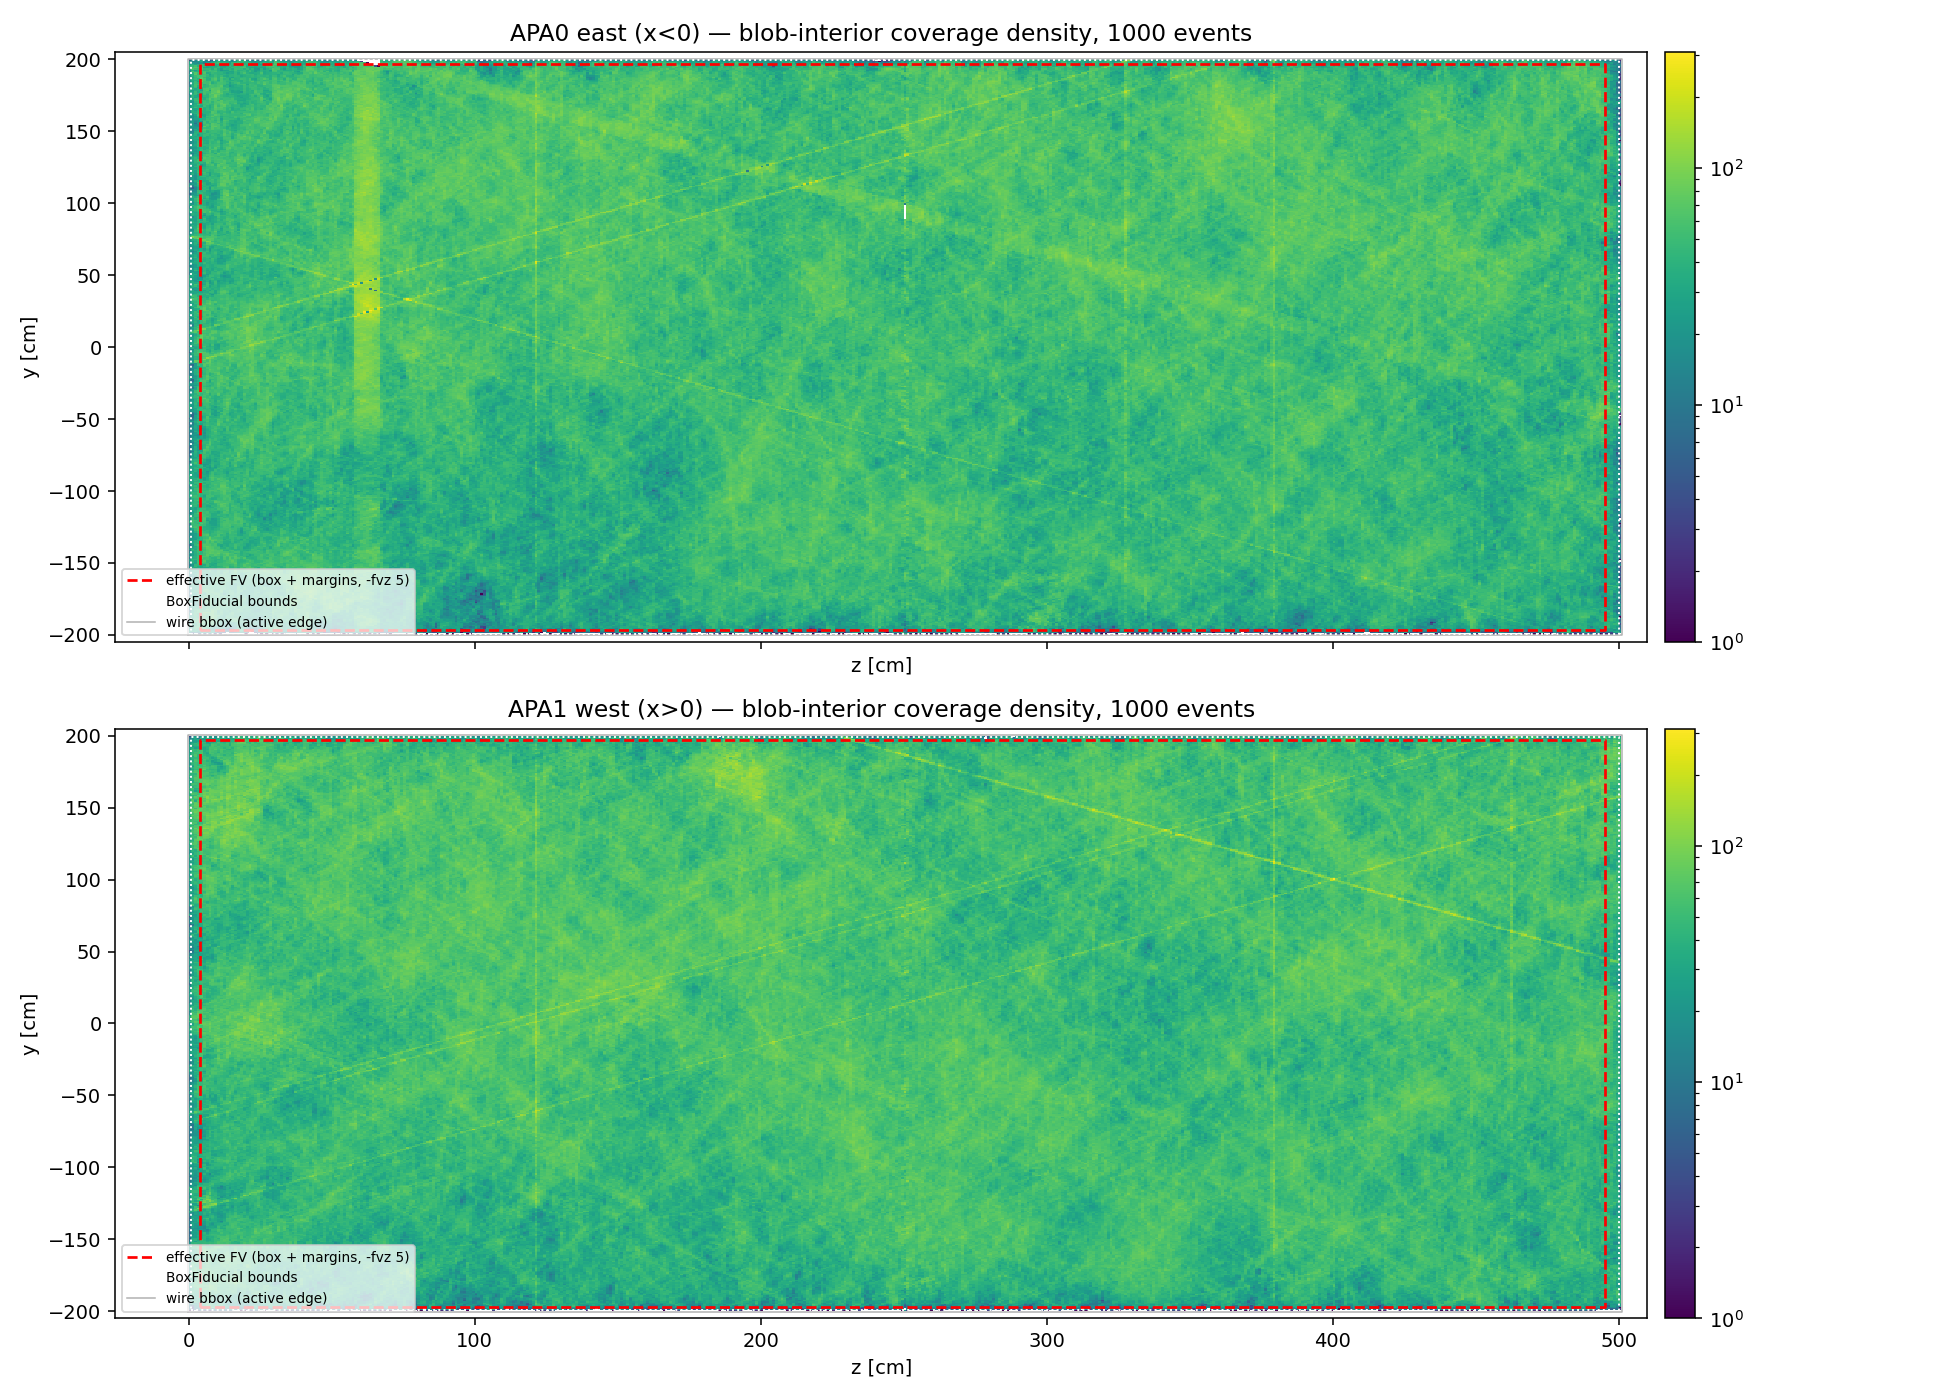
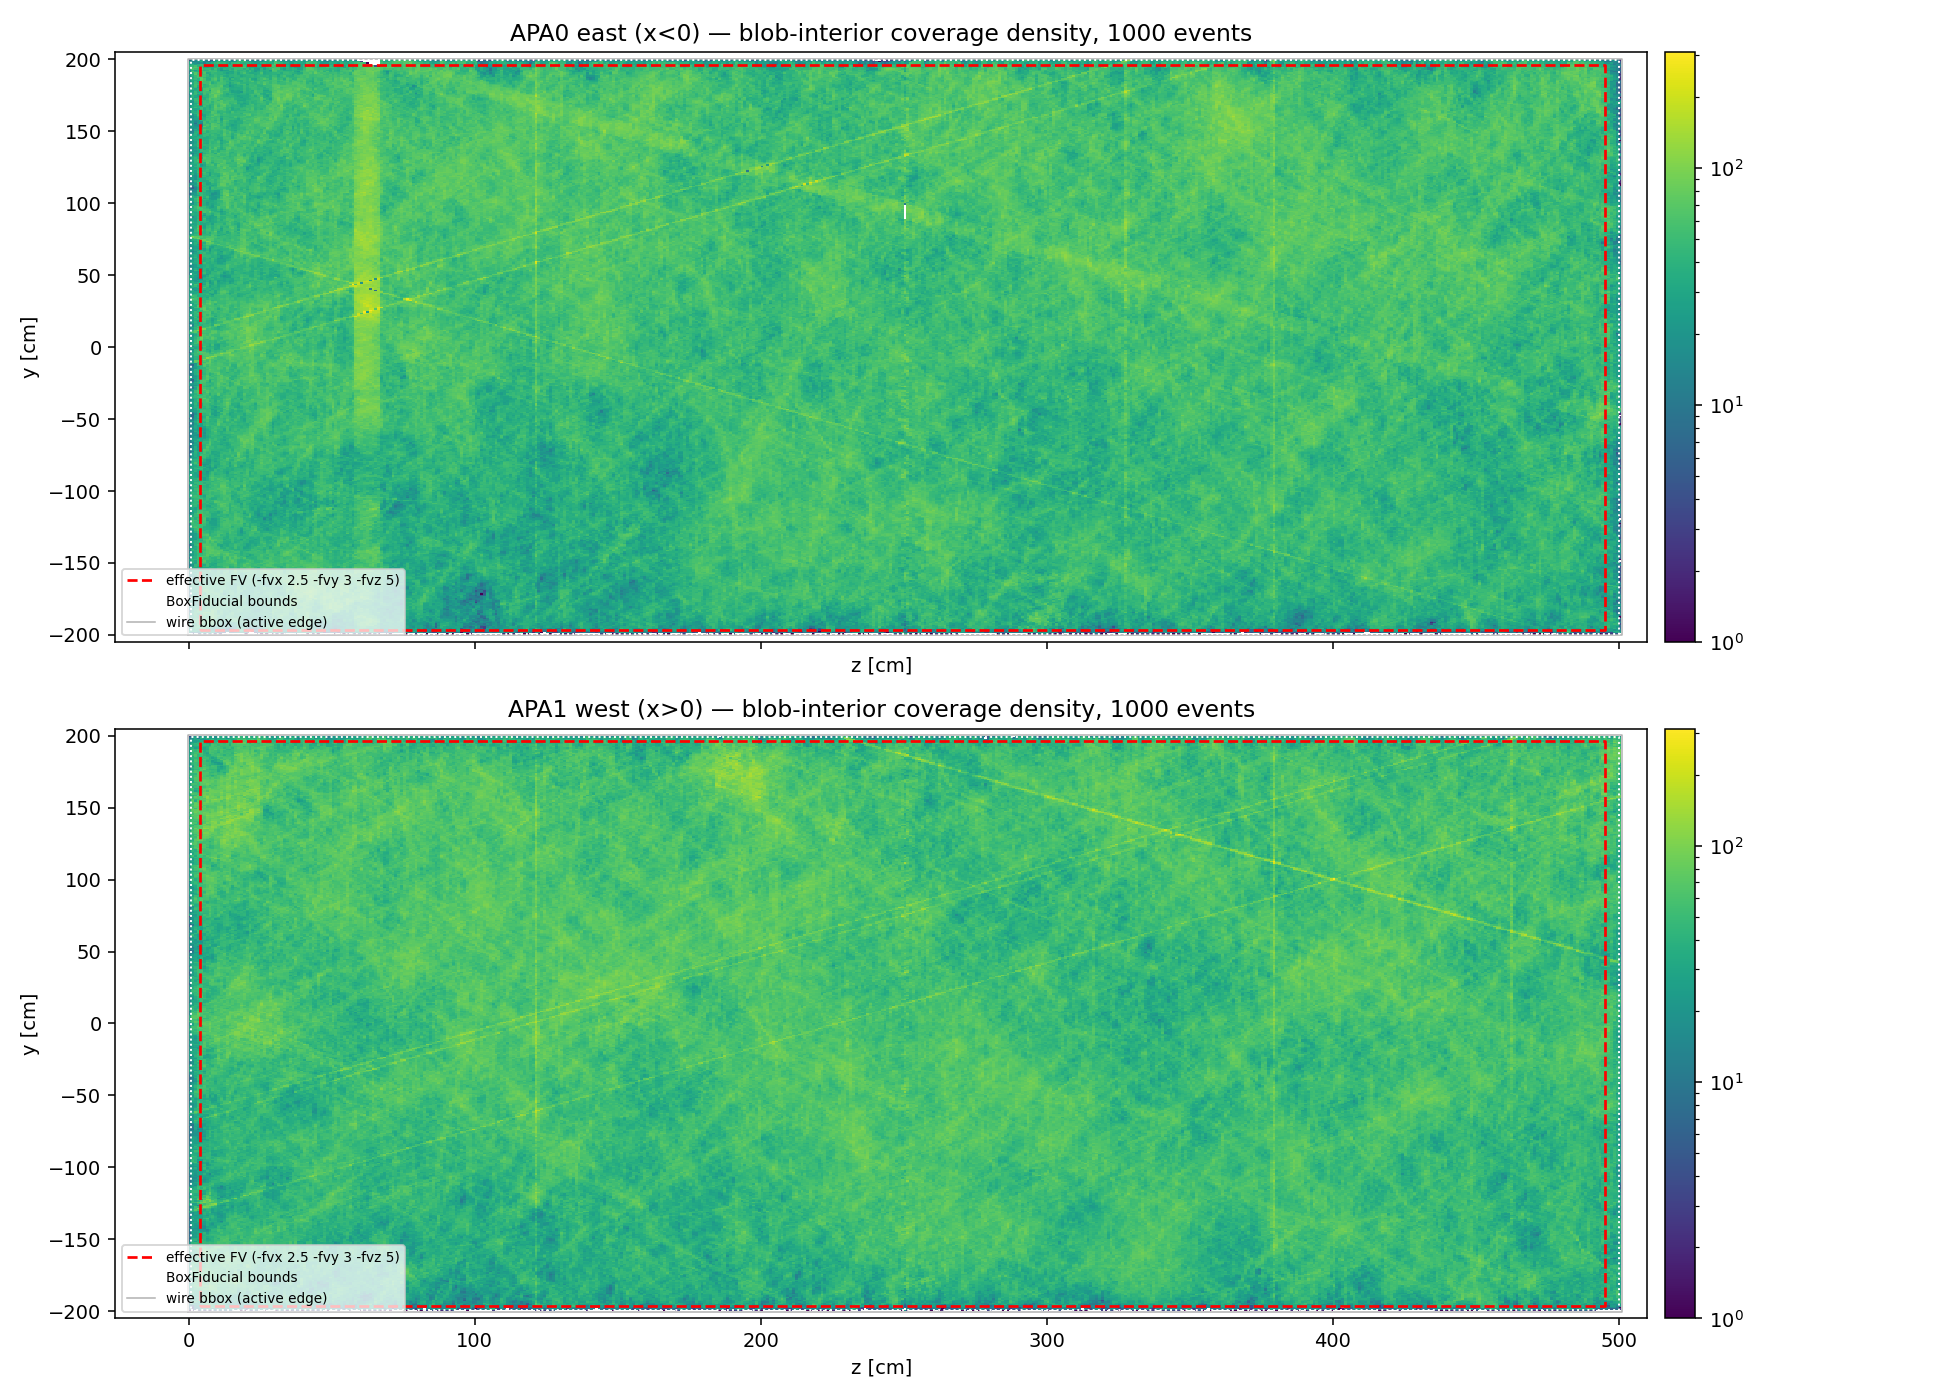
sbnd: doc 37 round 4 retuned to tgm_fv_x/y_margin knobs (-fvx 2.5 -fvy 3); Y-Z FV y faces 196.812 -> 196.312, live margin 2.7 -> 3.2 cm

Changed region(s): [[0.1556, 0.8907, 0.2179, 0.9521], [0.1556, 0.3993, 0.2179, 0.4607]]

diff --git a/sbnd/sbnd_xin/yz_coverage.py b/sbnd/sbnd_xin/yz_coverage.py
@@ -50,12 +50,27 @@ SIDES = {0: 'east (x<0)', 1: 'west (x>0)'}
 # cfg/pgrapher/experiment/sbnd/clus.jsonnet (read at doc-37 round 4):
 #   wire bbox            -> the physical active edge
 #   sbnd_pr_fv 'bounds'  -> BoxFiducial, bbox inset by 1 cm
-#   + sbnd_pr_fv_margins -> fv_tolerance: y +-2.5, z_min +3, z_max -tgm_fv_zmax_margin
-#     (production runs -fvz 5; legacy / doc-35 interior value is 3)
+#   + sbnd_pr_fv_margins -> fv_tolerance, the effective FV used by
+#     tagger_check_tgm / tagger_check_fc.
 WIRE_BBOX = dict(ymin=-200.312, ymax=200.312, zmin=-0.15, zmax=501.15)
 FV_BOX = dict(ymin=-199.312, ymax=199.312, zmin=0.85, zmax=500.15)
-FV_EFF = dict(ymin=-196.812, ymax=196.812, zmin=3.85, zmax=495.15)
-FV_EFF_ZMAX_INTERIOR = 497.15  # -fvzi 3 (doc 35) and the legacy -fvz 3 face
+
+# Production margins (cm).  The jsonnet knob DEFAULTS are the legacy values
+# tgm_fv_x_margin=2, tgm_fv_y_margin=2.5, tgm_fv_zmax_margin=3 (byte-identical);
+# production passes -fvx 2.5 -fvy 3 -fvz 5 -fvzi 3.  z_min is fixed at 3 cm.
+MARGIN_Y = 3.0        # -fvy  (legacy 2.5)
+MARGIN_ZMIN = 3.0     # not knob-parametrized
+MARGIN_ZMAX = 5.0     # -fvz  (legacy 3)
+MARGIN_ZMAX_INTERIOR = 3.0   # -fvzi, doc 35 (endpoint-only widening)
+MARGIN_X = 2.5        # -fvx  (legacy 2); not visible in a Y-Z projection,
+                      # effective |x| face = 201.05 - MARGIN_X = 198.55 cm
+LEGACY_MARGIN_Y = 2.5
+
+FV_EFF = dict(ymin=FV_BOX['ymin'] + MARGIN_Y, ymax=FV_BOX['ymax'] - MARGIN_Y,
+              zmin=FV_BOX['zmin'] + MARGIN_ZMIN,
+              zmax=FV_BOX['zmax'] - MARGIN_ZMAX)
+FV_EFF_ZMAX_INTERIOR = FV_BOX['zmax'] - MARGIN_ZMAX_INTERIOR   # 497.15
+FV_EFF_Y_LEGACY = FV_BOX['ymax'] - LEGACY_MARGIN_Y             # 196.812
 
 
 def draw_fv(ax, which='all'):
@@ -66,7 +81,8 @@ def draw_fv(ax, which='all'):
     for d, kw in ((WIRE_BBOX, kw_bb), (FV_BOX, kw_box), (FV_EFF, kw_eff)):
         ax.plot([d['zmin'], d['zmax'], d['zmax'], d['zmin'], d['zmin']],
                 [d['ymin'], d['ymin'], d['ymax'], d['ymax'], d['ymin']], **kw)
-    ax.plot([], [], **kw_eff, label='effective FV (box + margins, -fvz 5)')
+    ax.plot([], [], **kw_eff,
+            label='effective FV (-fvx 2.5 -fvy 3 -fvz 5)')
     ax.plot([], [], **kw_box, label='BoxFiducial bounds')
     ax.plot([], [], **kw_bb, label='wire bbox (active edge)')
 
@@ -368,6 +384,12 @@ def plot(args):
                 if nm == 'z_max':
                     ax.axvline(FV_EFF_ZMAX_INTERIOR, color='orange', ls='-.',
                                lw=1.0, label='interior FV (-fvzi 3)')
+                if nm in ('y_min', 'y_max'):
+                    leg = (FV_EFF_Y_LEGACY if nm == 'y_max'
+                           else -FV_EFF_Y_LEGACY)
+                    ax.axvline(leg, color='green', ls='-.', lw=1.0,
+                               label='legacy FV (-fvy 2.5)')
+                    ax.legend(fontsize=6.5, loc='lower right')
                 # density fraction exactly at the FV face
                 fr = np.interp(eff, coord, r)
                 ax.plot([eff], [fr], 'ro', ms=4)

diff --git a/sbnd/sbnd_xin/docs/37_yz-coverage.md b/sbnd/sbnd_xin/docs/37_yz-coverage.md
@@ -280,10 +280,17 @@ measured point density.
 |---|---|---|---|
 | wire bbox (physical active edge) | comments at `overall.FV_*` | ±200.312 | −0.15 … 501.15 |
 | `sbnd_pr_fv` BoxFiducial bounds | bbox inset 1 cm | ±199.312 | 0.85 … 500.15 |
-| **effective FV** (box + `sbnd_pr_fv_margins`) | y ±2.5, z_min +3, z_max −`tgm_fv_zmax_margin` | **±196.812** | **3.85 … 495.15** |
+| **effective FV** (box + `sbnd_pr_fv_margins`) | y −`tgm_fv_y_margin`, z_min +3, z_max −`tgm_fv_zmax_margin` | **±196.312** | **3.85 … 495.15** |
 
-The effective z_max uses the production `-fvz 5`; the doc-35 interior face
-(`-fvzi 3`) sits at 497.15 and is drawn separately in the z_max panel.
+**Updated for the `tgm_fv_x_margin` / `tgm_fv_y_margin` knobs** (x 2.0 → 2.5,
+y 2.5 → 3.0 cm).  The jsonnet knob *defaults* remain the legacy 2 / 2.5
+(byte-identical); production passes `-fvx 2.5 -fvy 3 -fvz 5 -fvzi 3`.  In
+the Y-Z projection only the y faces move — ±196.812 → **±196.312**, 0.5 cm
+further inside — and they are drawn against the superseded legacy face
+(green dash-dot) in the edge panels.  The x face moves 199.05 → 198.55 cm,
+which does not appear in a Y-Z projection.  z_max uses the production
+`-fvz 5`; the doc-35 interior face (`-fvzi 3`) sits at 497.15 and is drawn
+separately in the z_max panel.
 
 ![coverage density with FV boundaries](../pics/yz_coverage/yz-cover.png)
 
@@ -301,20 +308,25 @@ bottom to top).  Three independent measures at the FV face:
 |---|---|---|---|---|---|---|
 | z_min | 3.85 | 0.83 / 0.80 | 1.07 / 1.07 | 1.13 / 1.05 | ≤ 0.5 | ≥ 3.4 cm |
 | z_max | 495.15 | 0.95 / 0.98 | 1.06 / 1.04 | 0.98 / 1.07 | 500.5 | 5.4 cm |
-| y_min | −196.812 | 0.56 / 0.56 | 0.92 / 0.94 | 0.90 / 0.91 | −199.5 | 2.7 cm |
-| y_max | +196.812 | 0.68 / 0.68 | 0.98 / 0.94 | 0.97 / 1.02 | +199.5 | 2.7 cm |
+| y_min | −196.312 | 0.61 / 0.60 | 0.93 / 0.92 | 0.94 / 0.93 | −199.5 | 3.2 cm |
+| y_max | +196.312 | 0.71 / 0.71 | 0.97 / 0.93 | 0.97 / 1.01 | +199.5 | 3.2 cm |
 
 (values APA0 / APA1)
 
+Moving the y faces in by 0.5 cm buys a little on every count: live margin
+2.7 → **3.2 cm**, and the area density at the cut rises 0.56 → 0.61 (bottom)
+and 0.68 → 0.71 (top).  The z faces are untouched.
+
 **The y-face area dip is blob geometry, not lost coverage.**  Taken alone,
-the area-density curve at the y faces (0.56 / 0.68) looks like the FV cuts
+the area-density curve at the y faces (0.61 / 0.71) looks like the FV cuts
 into a half-dead region.  It does not: blob **count** and **charge** are
-90–102% of interior at the same y.  What shrinks is the size of each blob —
+92–101% of interior at the same y.  What shrinks is the size of each blob —
 mean covered area falls from ~5.0 bins in the interior to 2.8 at y = +198
 and 1.8 at y = −198, because the three-plane wire overlap narrows toward the
 top and bottom of the frame.  Tracks there are still found, with full
 charge; their blobs are simply thinner.  Reading the area map alone would
-have produced the wrong conclusion.
+have produced the wrong conclusion — and would have argued for a much larger
+y margin than the 0.5 cm actually taken.
 
 **Consistency verdict, face by face:**
 
@@ -327,16 +339,19 @@ have produced the wrong conclusion.
   interior.  Coverage continues to the wire bbox; 3.4 cm of live margin
   (the measured "last live" is limited by the histogram starting at z = 0,
   not by the detector, so the true margin to the bbox is 4.0 cm).
-- **y_min / y_max (±196.812)** — 2.7 cm of live margin on each side, with
-  full reconstruction efficiency at the cut.  Symmetric in the code, and
-  the detector is symmetric in *efficiency*; only blob width is mildly
-  asymmetric (1.8 vs 2.8 bins at |y| = 198), which does not justify moving
-  either face.
+- **y_min / y_max (±196.312, `-fvy 3`)** — 3.2 cm of live margin on each
+  side, with full reconstruction efficiency at the cut.  Symmetric in the
+  code, and the detector is symmetric in *efficiency*; only blob width is
+  mildly asymmetric (1.8 vs 2.8 bins at |y| = 198).  The measured edge does
+  not by itself demand the extra 0.5 cm — the previous ±196.812 was already
+  inside live, fully-reconstructing volume — so the widening is a
+  conservatism choice, not a correction of a boundary that was wrong.
 
 **No FV face is placed outside the active volume, and none cuts into a
-region that is already dead** — the current Y-Z fiducial boundaries are
-consistent with the measured coverage, with 2.7–5.4 cm of live margin
-everywhere.  The one place where an FV face abuts a genuinely dead region is
+region that is already dead** — the Y-Z fiducial boundaries are consistent
+with the measured coverage at both the legacy and the new margins, with
+3.2–5.4 cm of live margin everywhere after the `-fvy 3` update (2.7 cm
+before).  The one place where an FV face abuts a genuinely dead region is
 the APA0 y_max edge at z ≈ 65–70 cm, the top end of the east dead-channel
 cluster from round 3 (visible as the notch in the y_max zoom).
 
